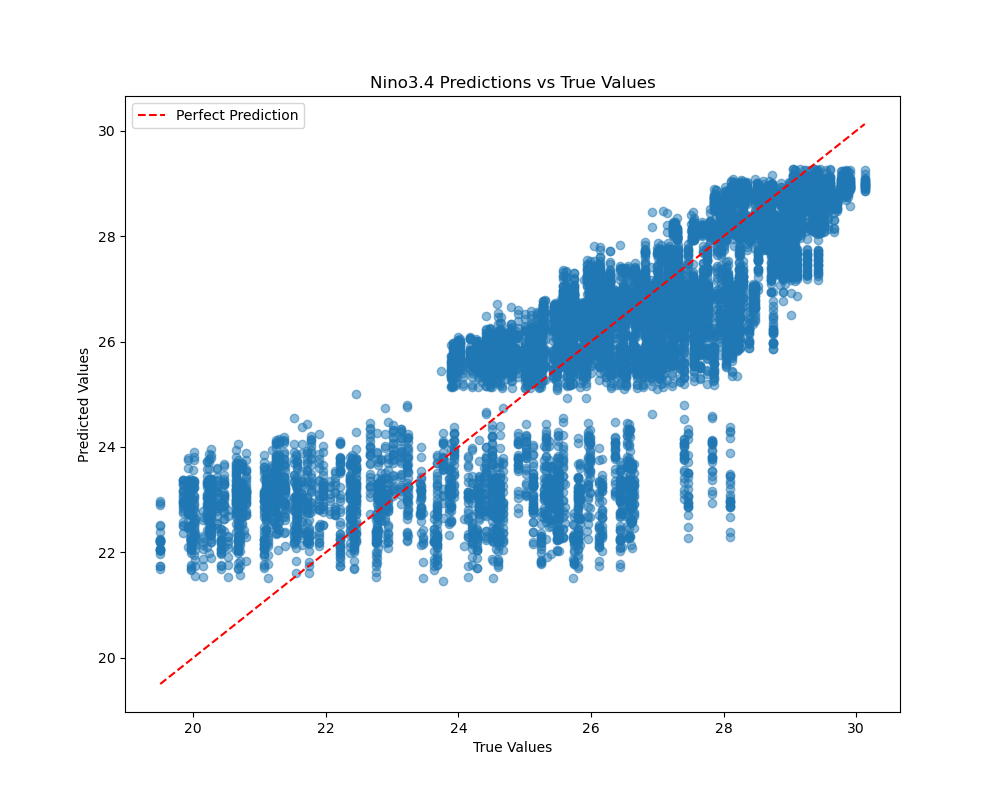
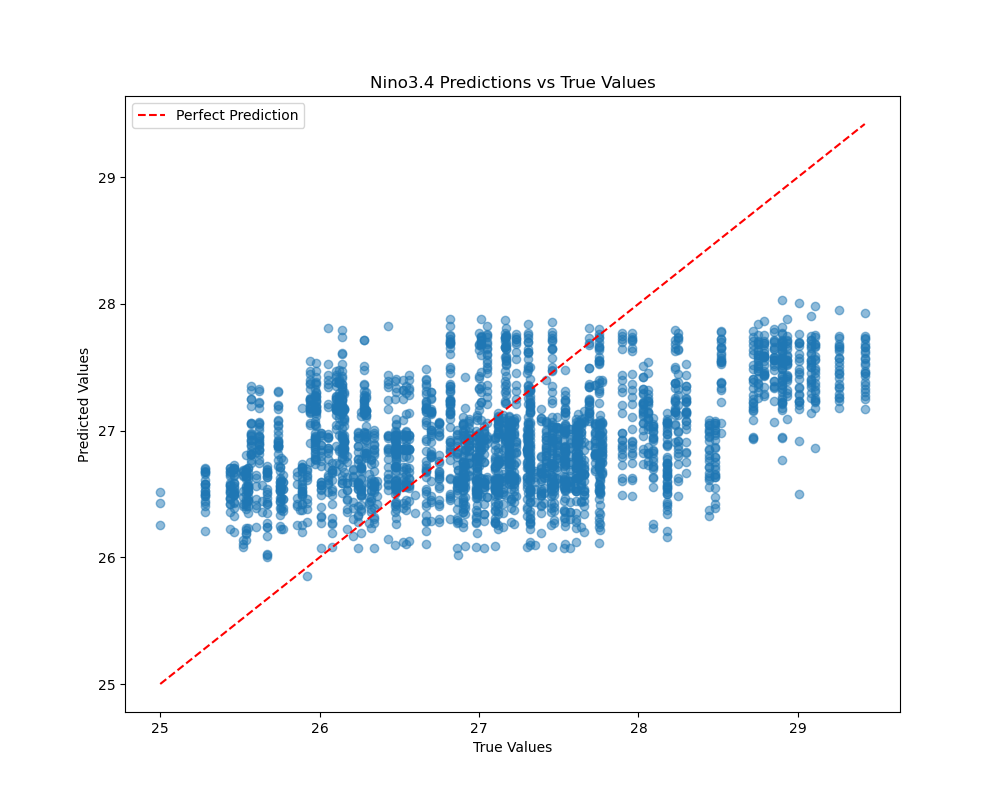
update visualizations

diff --git a/src/run_lgode.py b/src/run_lgode.py
@@ -107,15 +107,15 @@ if __name__ == '__main__':
     ############ Loading Data
     print("Loading dataset: " + args.dataset)
     dataloader = ParseData(args.dataset,suffix=args.suffix,mode=args.mode, args =args)
-    test_encoder, test_decoder, test_graph, test_batch, test_original_mean, test_original_std = dataloader.load_data(sample_percent=args.sample_percent_test,
+    test_encoder, test_decoder, test_graph, test_batch, train_original_max, train_original_min = dataloader.load_data(sample_percent=args.sample_percent_test,
                                                                               batch_size=args.batch_size,
                                                                               data_type="test")
-    train_encoder,train_decoder, train_graph,train_batch, train_original_mean, train_original_std = dataloader.load_data(sample_percent=args.sample_percent_train,batch_size=args.batch_size,data_type="train")
+    train_encoder,train_decoder, train_graph,train_batch, train_original_max, train_original_min = dataloader.load_data(sample_percent=args.sample_percent_train,batch_size=args.batch_size,data_type="train")
      
-    train_original_mean = train_original_mean.reshape(-1,1,1)
-    train_original_std = train_original_std.reshape(-1,1,1)
-    test_original_mean = test_original_mean.reshape(-1,1,1)
-    test_original_std = test_original_std.reshape(-1,1,1)
+    train_original_max = train_original_max.reshape(-1,1,1)
+    train_original_min = train_original_min.reshape(-1,1,1)
+    train_original_max = train_original_max.reshape(-1,1,1)
+    train_original_min = train_original_min.reshape(-1,1,1)
 
 
     input_dim = dataloader.feature
@@ -238,8 +238,8 @@ if __name__ == '__main__':
         train_true_y, train_pred_y = np.concatenate(total_true_y, axis=0), np.concatenate(total_pred_y, axis=0)
 
         # n_seq x N x T
-        true = inverse_normalize(train_true_y, train_original_mean, train_original_std)
-        pred = inverse_normalize(train_pred_y, train_original_mean, train_original_std)
+        true = inverse_normalize(train_true_y, train_original_max, train_original_min)
+        pred = inverse_normalize(train_pred_y, train_original_max, train_original_min)
         #true = train_true_y 
         #pred = train_pred_y 
 
@@ -257,10 +257,10 @@ if __name__ == '__main__':
 
         return message_train, kl_coef, true, pred, [rmse]
     
-    np.save(f"results/{args.save_name}/test_original_mean.npy", test_original_mean)
-    np.save(f"results/{args.save_name}/test_original_std.npy", test_original_std)
-    np.save(f"results/{args.save_name}/train_original_mean.npy", train_original_mean)
-    np.save(f"results/{args.save_name}/train_original_std.npy", train_original_std)
+    np.save(f"results/{args.save_name}/train_original_max.npy", train_original_max)
+    np.save(f"results/{args.save_name}/train_original_min.npy", train_original_min)
+    np.save(f"results/{args.save_name}/train_original_max.npy", train_original_max)
+    np.save(f"results/{args.save_name}/train_original_min.npy", train_original_min)
 
 
 
@@ -279,8 +279,8 @@ if __name__ == '__main__':
                                                 n_batches=test_batch, device=device,
                                                 n_traj_samples=3, kl_coef=kl_coef)
             
-            test_true = inverse_normalize(test_true_y, test_original_mean, test_original_std)
-            test_pred = inverse_normalize(test_pred_y, test_original_mean, test_original_std)
+            test_true = inverse_normalize(test_true_y, train_original_max, train_original_min)
+            test_pred = inverse_normalize(test_pred_y, train_original_max, train_original_min)
             rmse_nino = np.sqrt(np.mean(np.square(test_true[:,nino_col,:]-test_pred[:, nino_col,:]), axis=-1)).mean()
             rmse = np.sqrt( np.mean( np.square(test_true - test_pred), axis=2 ) ).mean(1).mean()
             mape = np.mean(np.abs( (test_true[:,nino_col,:]-test_pred[:, nino_col,:]) / test_true[:,nino_col,:] ), axis=-1).mean()

diff --git a/src/results/visualize.py b/src/results/visualize.py
@@ -1,18 +1,45 @@
 import matplotlib.pyplot as plt 
 import seaborn as sns
 import numpy as np
+from sklearn.metrics import r2_score, mean_absolute_percentage_error, mean_absolute_error
 import os
 
 
+category_1_features = ["nina1", "nina3", "nina34", "nina4"]
+category_2_features = category_1_features + ["pacwarm", 'soi', "tni", "whwp"]
+category_3_features = category_2_features + ["ammsst", "tna", "tsa", 'amon']
+category_4_features = category_3_features + ["ea", "epo", "nao", "pna", "wp"]
+category_5_features = category_4_features + ["qbo", "solar"]
+
+
 def plot_predictions_vs_true_reg(folder_path, visualize_length=50000):
+
+    if "cat1" in folder_path:
+        features = category_1_features
+    elif "cat2" in folder_path:
+        features = category_2_features
+    elif "cat3" in folder_path:
+        features = category_3_features
+    elif "cat4" in folder_path:
+        features = category_4_features
+    else:
+        features = category_5_features
+
+    n_features = len(features)
+    nino_feature_index = features.index("nina34")
+
     # Load the data
-    test_pred = np.load(os.path.join(folder_path, 'test_pred.npy')).squeeze().flatten()
-    test_true = np.load(os.path.join(folder_path, 'test_true.npy')).squeeze().flatten()
+    test_pred = np.load(os.path.join(folder_path, 'test_pred.npy')).squeeze().reshape(-1, n_features, 24)[:, nino_feature_index,:].flatten()
+    test_true = np.load(os.path.join(folder_path, 'test_true.npy')).squeeze().reshape(-1, n_features, 24)[:, nino_feature_index,:].flatten()
 
     if len(test_pred) > visualize_length:
         test_pred = test_pred[:visualize_length]
         test_true = test_true[:visualize_length]
     
+    print(f"R2: {r2_score(test_true, test_pred)}")
+    print(f"MAPE: {mean_absolute_percentage_error(test_true, test_pred)}")
+    print(f"MAE: {mean_absolute_error(test_true, test_pred)}")
+
     plt.figure(figsize=(10, 8))
 
     # Create scatter plot
@@ -37,9 +64,23 @@ def plot_predictions_vs_true_reg(folder_path, visualize_length=50000):
 
 
 def plot_predictions_vs_true(folder_path, visualize_length=500):
+    if "cat1" in folder_path:
+        features = category_1_features
+    elif "cat2" in folder_path:
+        features = category_2_features
+    elif "cat3" in folder_path:
+        features = category_3_features
+    elif "cat4" in folder_path:
+        features = category_4_features
+    else:
+        features = category_5_features
+
+    n_features = len(features)  
+    nino_feature_index = features.index("nina34")
+
     # Load the data
-    test_pred = np.load(os.path.join(folder_path, 'test_pred.npy')).squeeze().flatten()
-    test_true = np.load(os.path.join(folder_path, 'test_true.npy')).squeeze().flatten()
+    test_pred = np.load(os.path.join(folder_path, 'test_pred.npy')).squeeze().reshape(-1, n_features, 24)[:, nino_feature_index,:].flatten()
+    test_true = np.load(os.path.join(folder_path, 'test_true.npy')).squeeze().reshape(-1, n_features, 24)[:, nino_feature_index,:].flatten()
     
     if len(test_pred) > visualize_length:
         test_pred = test_pred[:visualize_length]
